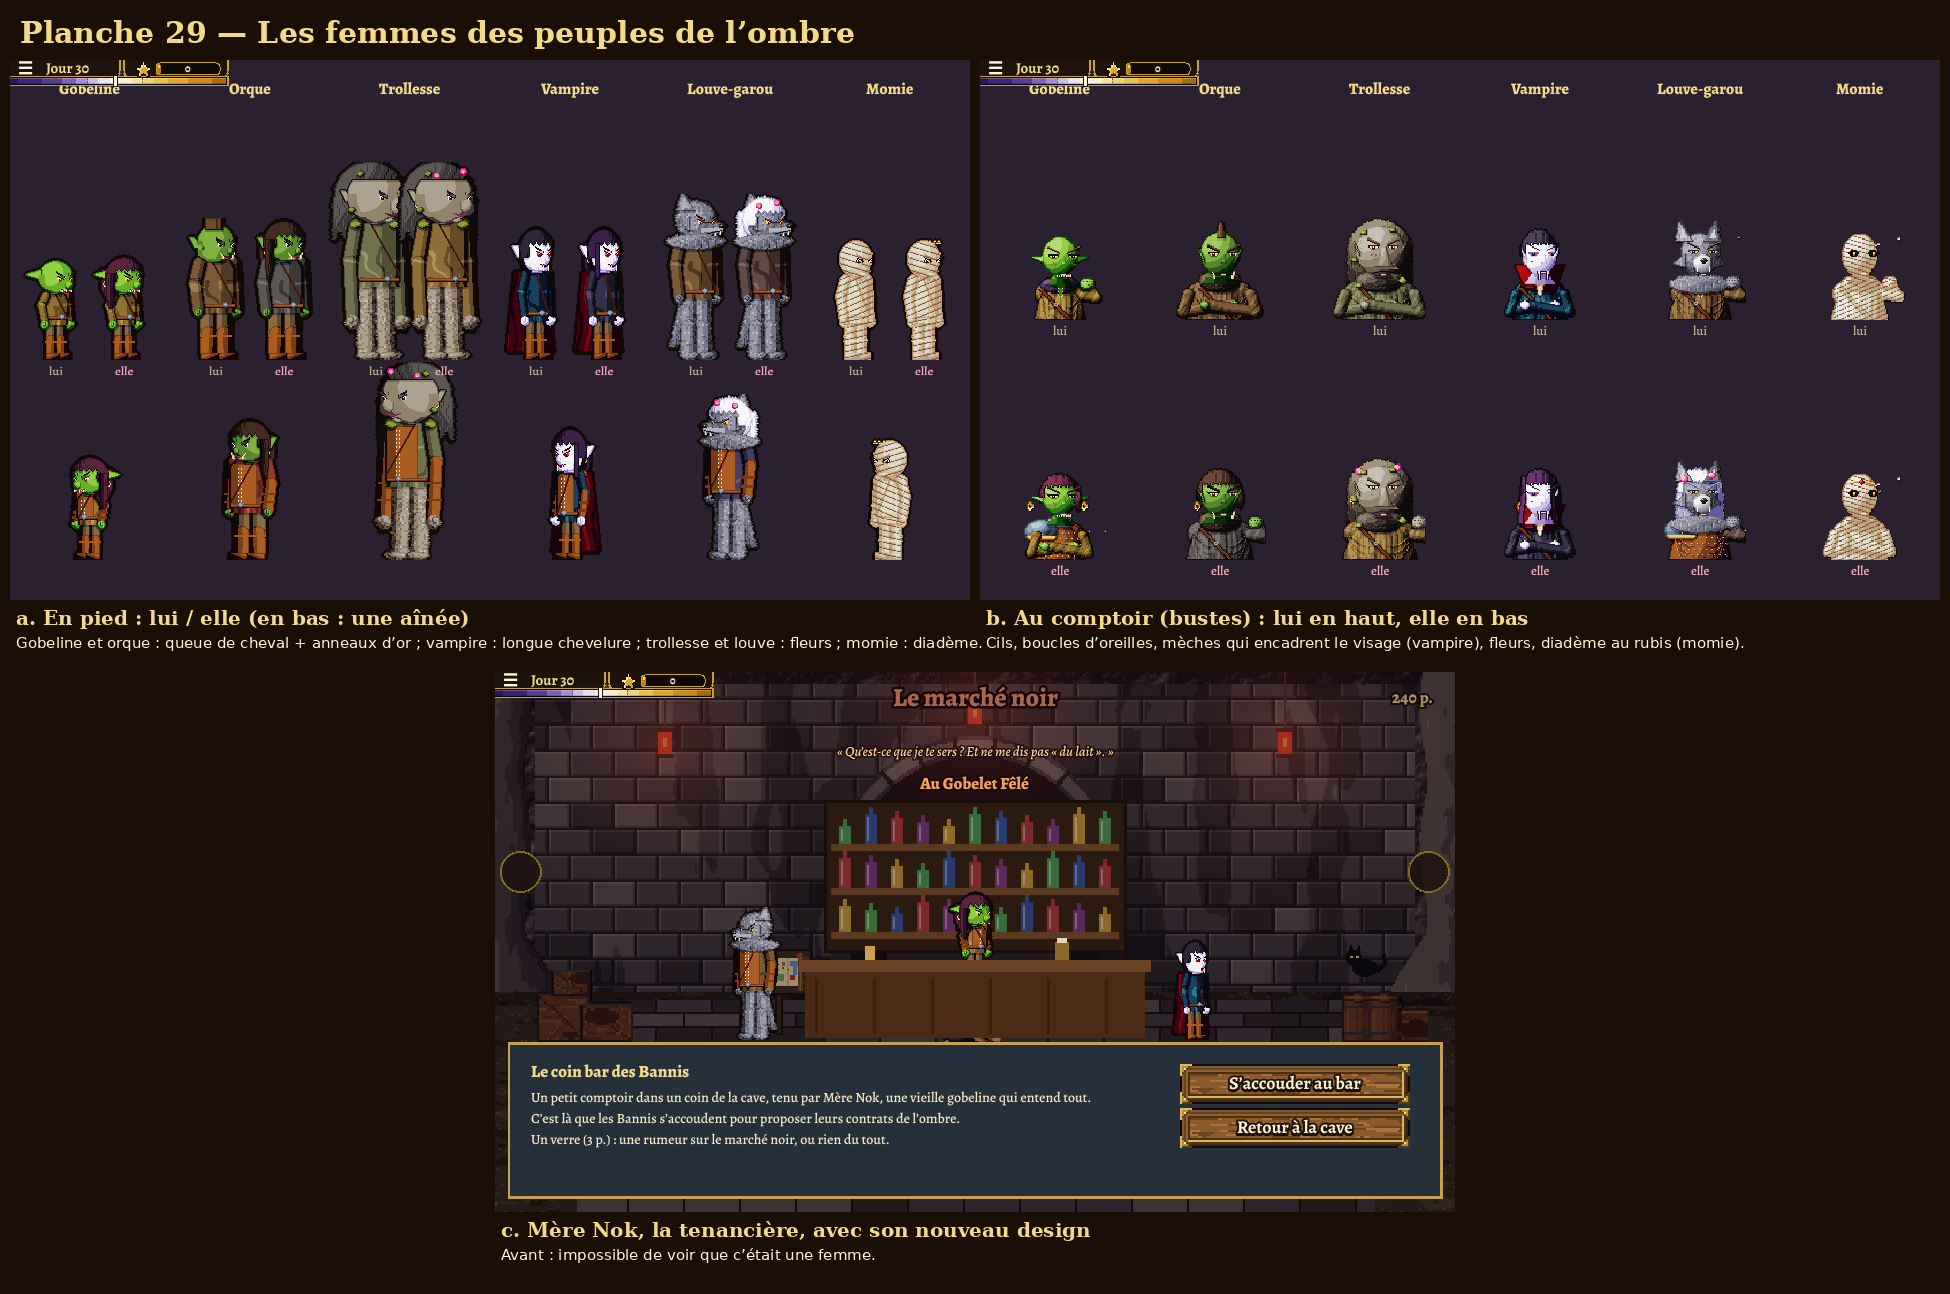
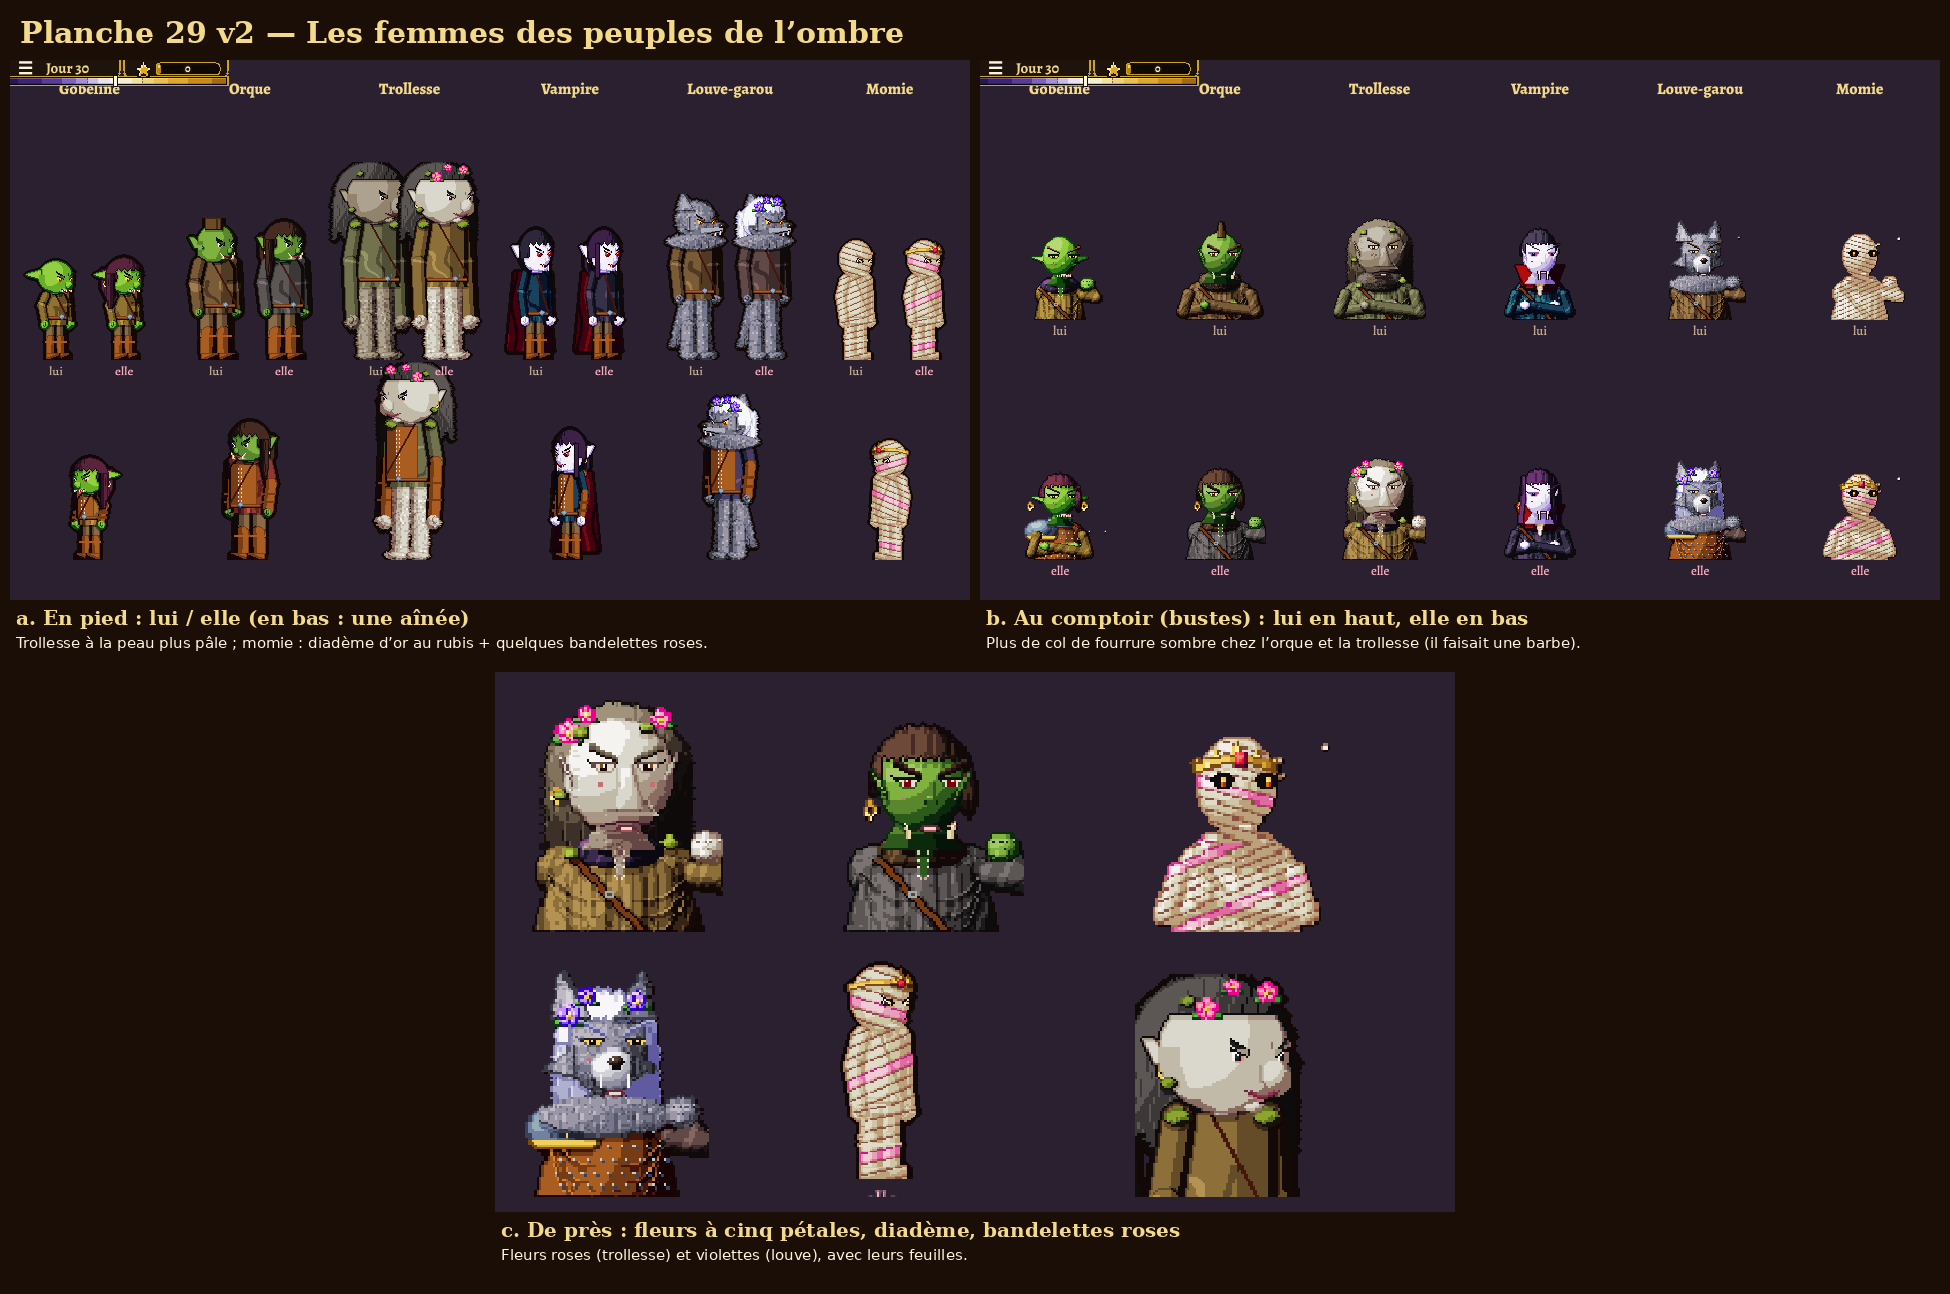
Planche 29 v2 : diadème lisible et bandelettes roses (momie), vraies fleurs, trollesse plus pâle, sans col qui fait barbe
Claude-Session: https://claude.ai/code/session_018kbaP56NxxNMUzmj9EfKBC

diff --git a/src/portraitsHD.js b/src/portraitsHD.js
@@ -192,6 +192,14 @@ const BASES_PEAU = [0, 1, 2, 3, 4];
 
 // La couleur des lèvres selon la peau : sur une peau foncée, des lèvres sombres disparaissent
 // (et avec elles, l'expression du visage) ; on les éclaircit pour qu'elles ressortent.
+// (v0.98) Une fleur piquée dans les cheveux : cinq pétales autour d'un cœur d'or, deux petites feuilles
+function fleurHD(t, x, y, r, couleur) {
+  t.rampes.fleur = rampeVive(couleur); t.rampes.feuille = rampeVive(0x4a8a3a);
+  for (const a of [2.4, 0.7]) t.forme('feuille', ellipsoide(x + Math.cos(a) * r * 1.25, y + Math.sin(a) * r * 1.1, r * 0.6, r * 0.38), { decalage: -0.3, ombre: false });
+  for (let i = 0; i < 5; i++) { const a = -Math.PI / 2 + i * Math.PI * 2 / 5; t.forme('fleur', ellipsoide(x + Math.cos(a) * r * 0.62, y + Math.sin(a) * r * 0.62, r * 0.5, r * 0.5), { decalage: 0.3, ombre: false }); }
+  t.forme('or', ellipsoide(x, y, Math.max(1, r * 0.3), Math.max(1, r * 0.3)), { decalage: 0.5, ombre: false, bord: false });
+}
+
 function levresPour(peau, feminin) {
   if (peau >= 4) return rampe(feminin ? 0xffb0b8 : 0xf0a898);
   if (peau >= 3) return rampe(feminin ? 0xf09aa4 : 0xd8907e);
@@ -547,8 +555,7 @@ function dessinerBusteHD(gene, expression = 'neutre', { cligne = false, parle = 
     t.relief = false;
   }
   if (ombreF && ombreF.meches) for (const sens of [-1, 1]) { const mx = cx + sens * (v.rx - 2) - T * 0.5; t.relief = true; t.forme('cheveux', (x, y) => (y >= v.cy - v.ry + 3 && y <= v.cy + v.ry + 6 && Math.abs(x + 0.5 - mx - sens * Math.max(0, y - v.cy) * 0.12) < 2.4 ? [sens * 0.5, 0, 0.8] : null), { decalage: 0.2, motif: MECHES }); t.relief = false; }
-  if (ombreF && ombreF.fleurs) { t.rampes.fleur = rampeVive(0xe86a9a); t.relief = true; for (const [i, j] of [[-v.rx + 3, -v.ry + 5], [v.rx - 6, -v.ry + 2]]) { t.forme('fleur', ellipsoide(cx + i, v.cy + j, 3.2, 3), { decalage: 0.4, ombre: false }); t.poser(cx + i, v.cy + j, 'or', 5); } t.relief = false; }
-  if (ombreF && ombreF.diademe) { t.rampes.rubis = rampeVive(0xc02040); const dy = Math.round(v.cy - v.ry + 5); for (let i = -12; i <= 12; i++) { t.poser(cx + i, dy + Math.round((i * i) / 60), 'or', 4); t.poser(cx + i, dy + 1 + Math.round((i * i) / 60), 'or', 2); } t.forme('rubis', ellipsoide(cx + T * 0.5, dy + 1, 2.2, 2.6), { ombre: false }); }
+  if (ombreF && ombreF.fleurs) { t.relief = true; for (const [i, j, r] of [[-v.rx + 2, -v.ry + 6, 4.2], [v.rx - 5, -v.ry + 1, 3.6], [-v.rx + 9, -v.ry - 1, 3]]) fleurHD(t, cx + i, v.cy + j, r, ombreF.fleurs); t.relief = false; }
   if (TR.mousse) { t.relief = true; for (const [i, j, r] of [[-14, -16, 3.5], [11, -18, 3], [-22, 8, 3], [20, 26, 4], [-18, 30, 3.5]]) t.forme('mousse', ellipsoide(cx + i, v.cy + j, r, r * 0.7), { motif: (x, y) => (hachage(x, y, 5) > 0.6 ? 0.6 : 0) }); }
 
   // 7. Les sourcils, par-dessus tout (ils débordent du casque des nains)
@@ -592,6 +599,16 @@ function dessinerBusteHD(gene, expression = 'neutre', { cligne = false, parle = 
       t.poser(x, y, 'bande', b < 0.7 ? 0 : b > 3.3 ? Math.max(1, ton - 1) : Math.min(5, Math.max(2, ton)));
     }
     // les pupilles jaunâtres, qui luisent au fond des orbites
+    // (v0.98) la momie : quelques bandelettes roses parmi les blanches, et un diadème d'or au rubis
+    for (let y = 0; y < HD_H; y++) for (let x = 0; x < HD_L; x++) if (ombreF && ombreF.rose && t.mat(x, y) === 'bande' && (((Math.floor((y + x * (y < v.torse ? -0.3 : 0.42)) / 4)) % 6) + 6) % 6 === 2) { t.rampes.bandeRose = rampe(0xe8a0b8); t.poser(x, y, 'bandeRose', t.k[y * t.l + x]); }
+    if (ombreF && ombreF.diademe) {
+      t.rampes.rubis = rampeVive(0xd02040); t.relief = true;
+      const dy = Math.round(v.cy - v.ry + 7), bombe = i => Math.round((i * i) / 70);
+      t.forme('or', (x, y) => { const i = x + 0.5 - cx; return Math.abs(i) <= v.rx + 1 && y >= dy + bombe(i) - 1 && y <= dy + bombe(i) + 2 ? [i / v.rx, 0, 0.8] : null; }, { decalage: 0.4 });
+      for (const [i, h] of [[0, 8], [-8, 5], [8, 5], [-15, 3], [15, 3]]) t.forme('or', (x, y) => { const d = Math.abs(x + 0.5 - cx - i); return y < dy + bombe(i) && y >= dy + bombe(i) - h + d * (h / 3) ? [0, -0.3, 0.8] : null; }, { decalage: 0.4 });
+      t.forme('rubis', ellipsoide(cx + T * 0.5, dy + 1, 3, 3.4), { decalage: 0.6, ombre: false });
+      t.relief = false;
+    }
     for (const ox of [fx - 9, fx + 8]) { t.poser(ox, ey, 'iris', 5); t.poser(ox + 1, ey, 'iris', 4); t.poser(ox, ey - 1, 'iris', 4); t.poser(ox + 1, ey - 1, 'iris', 3); t.poser(ox, ey + 1, 'iris', 2); t.poser(ox + 1, ey + 1, 'iris', 1); }
   }
   if (TR.touffu) {
@@ -859,7 +876,7 @@ function torseHD(t, g, v, cx) {
     t.forme('cape', ellipsoide(cx, v.torse + 1, 10, 4), { decalage: -1.4, bord: false });
     // (v0.57) Les orcs et les trolls : un épais col de fourrure autour du cou (plus de col lacé, qui
     // leur faisait un cou trop fin) ; les vampires : un haut col dressé et un jabot de dentelle
-    if (g.race === 'orc' || g.race === 'troll') {
+    if ((g.race === 'orc' || g.race === 'troll') && !g.feminin) {   // (v0.98 : pas chez les femmes, où il faisait une barbe)
       t.rampes.colFourrure = rampe(g.race === 'troll' ? 0x5a5248 : 0x5a4636);
       t.forme('colFourrure', ellipsoide(cx, v.torse, g.race === 'troll' ? 21 : 18, 9), { decalage: -0.2, motif: (x, y) => ((x * 3 + y * 5) % 7 === 0 ? -0.9 : (x + y) % 5 === 0 ? 0.6 : 0) });
       for (let x = Math.round(cx - 19); x <= cx + 19; x += 2) if (hachage(x, 1, 77) > 0.4 && t.mat(x, v.torse - 2) === 'colFourrure') t.poser(x, v.torse - 6 + Math.round(hachage(x, 2, 78) * 2), 'colFourrure', 3);

diff --git a/src/corpsVueHD.js b/src/corpsVueHD.js
@@ -55,9 +55,9 @@ const FEMININ_OMBRE = {
   gobelin: { cheveux: undefined, coiffure: 'queue', teinte: 0x2a1622, sourire: false },
   orc: { cheveux: undefined, coiffure: 'queue', teinte: 0x1a1210, carre: false, sourcil: 1 },
   vampire: { cheveux: undefined, coiffure: 'long', teinte: 0x16101c, meches: true, levres: 0xa01830 },
-  loupgarou: { cheveux: undefined, coiffure: 'long', teinte: 0xd8d8e2, fleurs: true },
-  troll: { sourcil: 1.2, nez: 2.5, fleurs: true },
-  momie: { diademe: true },
+  loupgarou: { cheveux: undefined, coiffure: 'long', teinte: 0xd8d8e2, fleurs: 0x8a6ae8 },
+  troll: { sourcil: 1.2, nez: 2.5, fleurs: 0xf07aa8, peau: 0xbcb8ae },
+  momie: { diademe: true, rose: true },
 };
 
 // Les Bannis ont l'air fâché tant qu'ils ne te connaissent pas (le joueur est du côté de la lumière
@@ -966,12 +966,12 @@ function dessinerCorpsVue(g, tenue = 1, costume = null, pas = 0, pose = null, vu
   }
   // (v0.98) les mèches qui encadrent le visage de la vampire, les fleurs piquées dans les cheveux
   if (T.meches && !dos) for (const cote of [loin, pres]) { const u = cote * P.rx * 0.92; if (Z(u, P.rx * 0.35) < 0) continue; const mx = X(u, P.rx * 0.35); t.forme('cheveux', (x, y) => (y >= cy - P.ry * 0.5 && y <= cy + P.ry + 3 * k && Math.abs(x + 0.5 - mx) < 1.3 * k ? [cote * 0.5, 0, 0.8] : null), { decalage: 0.2, motif: MECHES }); }
-  if (T.fleurs && !dos) { t.rampes.fleur = rampeVive(0xe86a9a); for (const [u, dy] of [[-0.75, -0.75], [0.55, -0.9]]) { const fx0 = X(u * P.rx, P.rx * 0.4), fy0 = cy + dy * P.ry; t.forme('fleur', ellipsoide(fx0, fy0, 1.6 * k, 1.5 * k), { decalage: 0.4, ombre: false }); t.poser(Math.round(fx0), Math.round(fy0), 'or', 5); } }
+  if (T.fleurs && !dos) for (const [u, dy, r] of [[-0.8, -0.7, 2.4], [0.5, -0.95, 2.1], [-0.25, -1.05, 1.7]]) fleurHD(t, X(u * P.rx, P.rx * 0.45), cy + dy * P.ry, r * k, T.fleurs);
   if (!dos) { t.relief = false; poserYeux(); t.relief = true; }
   if (porte('monocle') && !dos && yeux.length) { const [ox] = yeux[yeux.length - 1]; for (let a = 0; a < 6.3; a += 0.25) t.poser(Math.round(ox + Math.cos(a) * 2.6 * k), Math.round(ey + 0.3 * k + Math.sin(a) * 2.8 * k), 'or', a < 3 ? 4 : 2); for (let j = 0; j < 5 * k; j++) t.poser(Math.round(ox + 2.6 * k + (j % 2 ? 1 : 0)), Math.round(ey + 3 * k + j), 'or', 3); }
   if (porte('pipe') && !dos) { const bx = X(0, P.rx * 0.85); const px = Math.round(bx + s * 2 * k - 2 * k); for (let j = 0; j < 5 * k; j++) for (let e = 0; e < k; e++) t.poser(px - j, by + Math.floor(j / (2 * k)) * k + e, 'bruyere', 3); t.forme('bruyere', ellipsoide(px - 5 * k, by + 2.5 * k, 1.4 * k, 1.6 * k), { decalage: 0.1, ombre: false }); for (let j = 0; j < 3; j++) t.poser(px - 5 * k - j, by - 1 * k - j * 2 * k, 'blanc', 4 + (j % 2)); }
   if (longs && dos) t.forme('cheveux', (x, y) => (y >= cy && y <= yT + 10 * k && Math.abs(x + 0.5 - cx) < P.rx + 1 * k - Math.max(0, y - yT - 4 * k) * 0.4 ? [(x + 0.5 - cx) / (P.rx + 2 * k), 0, 0.8] : null), { decalage: -0.3, motif: MECHES });
-  if ((tenue >= 4 || T.diademe) && race !== 'nain' && race !== 'magicienne') for (let j = -5; j <= 5; j++) { const x = Math.round(X(j * k, Math.sqrt(Math.max(0, P.rx * P.rx - (j * k) ** 2)) * 0.9)); for (let e = 0; e < k; e++) t.poser(x + e, cy - P.ry + 1 * k + (j % 3 === 0 ? -1 * k : 0), 'or', j % 3 === 0 ? 5 : 4); } // le diadème
+  if (tenue >= 4 && race !== 'nain' && race !== 'magicienne') for (let j = -5; j <= 5; j++) { const x = Math.round(X(j * k, Math.sqrt(Math.max(0, P.rx * P.rx - (j * k) ** 2)) * 0.9)); for (let e = 0; e < k; e++) t.poser(x + e, cy - P.ry + 1 * k + (j % 3 === 0 ? -1 * k : 0), 'or', j % 3 === 0 ? 5 : 4); } // le diadème
 
   // --- Les couvre-chefs des peuples ---
   if (race === 'nain' && costume !== 'banquier' && !forgeron) {
@@ -1120,6 +1120,16 @@ function dessinerCorpsVue(g, tenue = 1, costume = null, pas = 0, pose = null, vu
     }
     // Les yeux : deux lueurs dans la fente
     if (!dos) for (const [ox] of yeux) { t.poser(Math.round(ox), Math.round(ey), 'iris', 5); t.poser(Math.round(ox) + 1, Math.round(ey), 'iris', 4); t.poser(Math.round(ox), Math.round(ey) - 1, 'iris', 3); }
+    // (v0.98) la momie : quelques bandelettes roses parmi les blanches, et un diadème d'or au rubis
+    if (T.rose) { t.rampes.bandeRose = rampe(0xe8a0b8); for (let y = 0; y < H; y++) for (let x = 0; x < L; x++) if (t.mat(x, y) === 'bande' && (((Math.floor((y + x * (y < yT ? -0.3 : y > yB ? 0.22 : 0.42)) / k / 3)) % 6) + 6) % 6 === 2) t.poser(x, y, 'bandeRose', t.k[y * t.l + x]); }
+    if (T.diademe && !dos) {
+      t.rampes.rubis = rampeVive(0xd02040);
+      const dy = cy - P.ry * 0.5;
+      t.forme('or', (x, y) => { const nx = (x + 0.5 - cx) / (P.rx + 0.6 * k); return Math.abs(nx) <= 1 && Math.abs(y + 0.5 - dy - nx * nx * 1.5 * k) < 0.9 * k ? [nx, 0, 0.8] : null; }, { decalage: 0.4 });
+      const front = X(0, P.rx);
+      for (const [du, h] of [[0, 3.8], [-2.6, 2.4], [2.6, 2.4]]) { const px = front + du * k * Math.max(0.5, c); t.forme('or', (x, y) => { const d = Math.abs(x + 0.5 - px); return y <= dy && y >= dy - h * k + d * h / 1.3 ? [0, -0.4, 0.8] : null; }, { decalage: 0.4 }); }
+      t.forme('rubis', ellipsoide(front, dy + 0.2 * k, 1.2 * k, 1.3 * k), { decalage: 0.6, ombre: false });
+    }
     // Un bout de bandelette qui pend du poignet
     const bx0 = X(pres * (ep + 1 * k), 1 * k);
     for (let j = 0; j < 7 * k; j++) for (let e = 0; e < k; e++) t.poser(Math.round(bx0 + Math.sin(j / (2 * k)) * 0.8 * k) + e, Math.round(yB + 3 * k + j), 'bande', j % (3 * k) === 0 ? 1 : 3);
